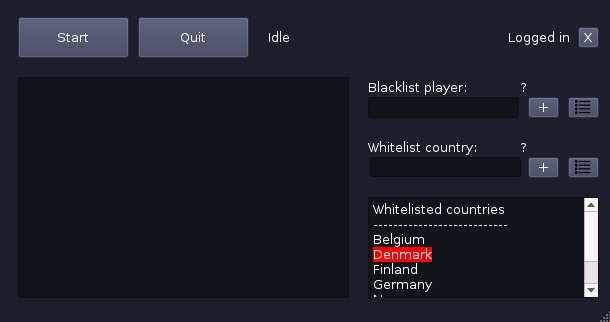
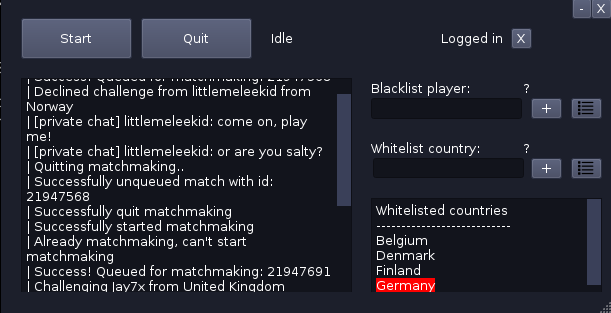
New image + round borders for buttons again.

diff --git a/static/mainwindow.css b/static/mainwindow.css
@@ -10,7 +10,7 @@ QLineEdit {
 QPushButton {
     background-color: rgb(58, 64, 89);
     color: white;
-    border-radius: 0;
+    /* border-radius: 0; */
 }
 
 QLabel {
